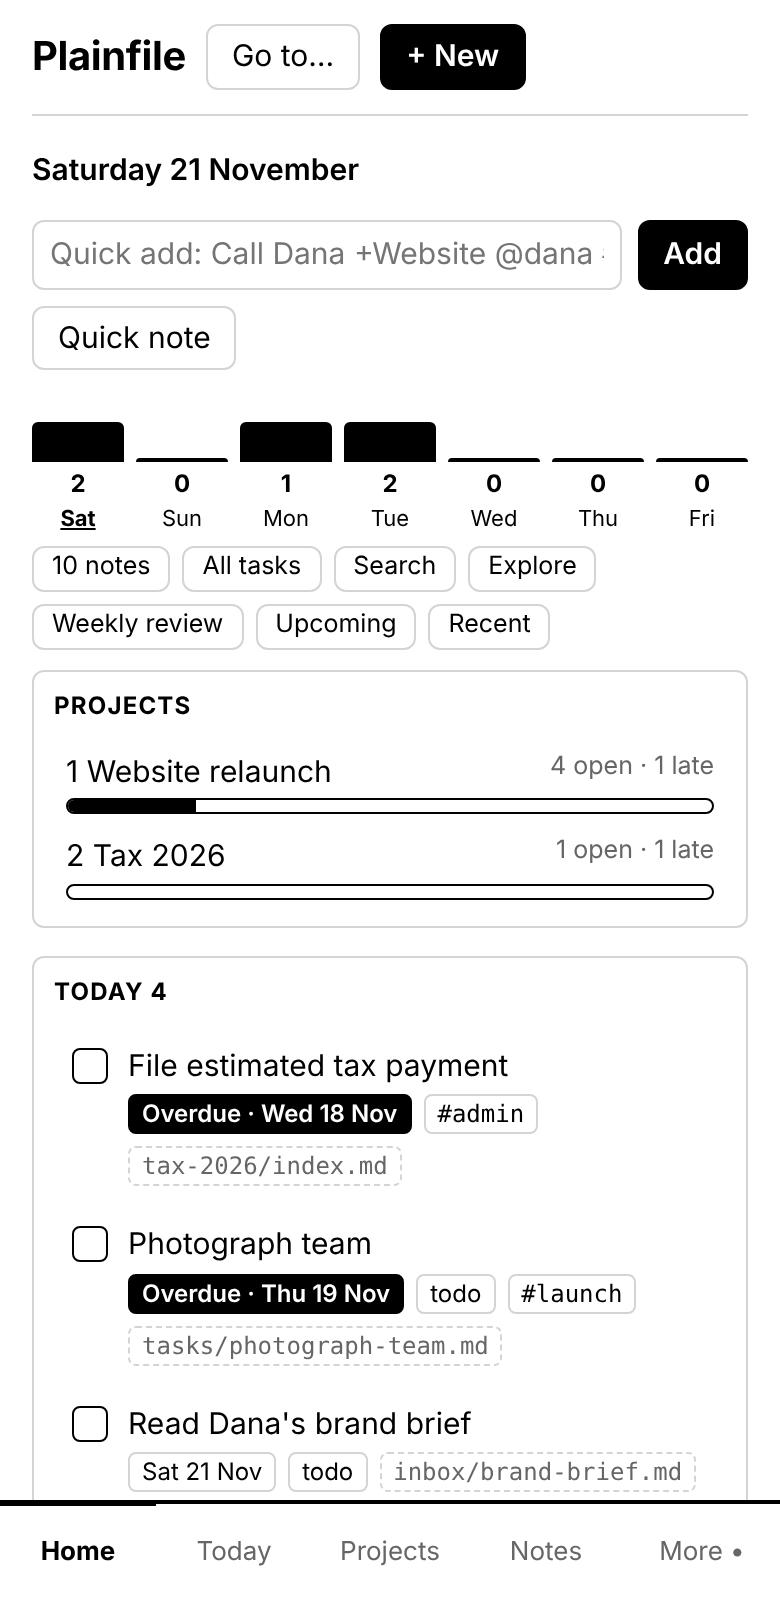
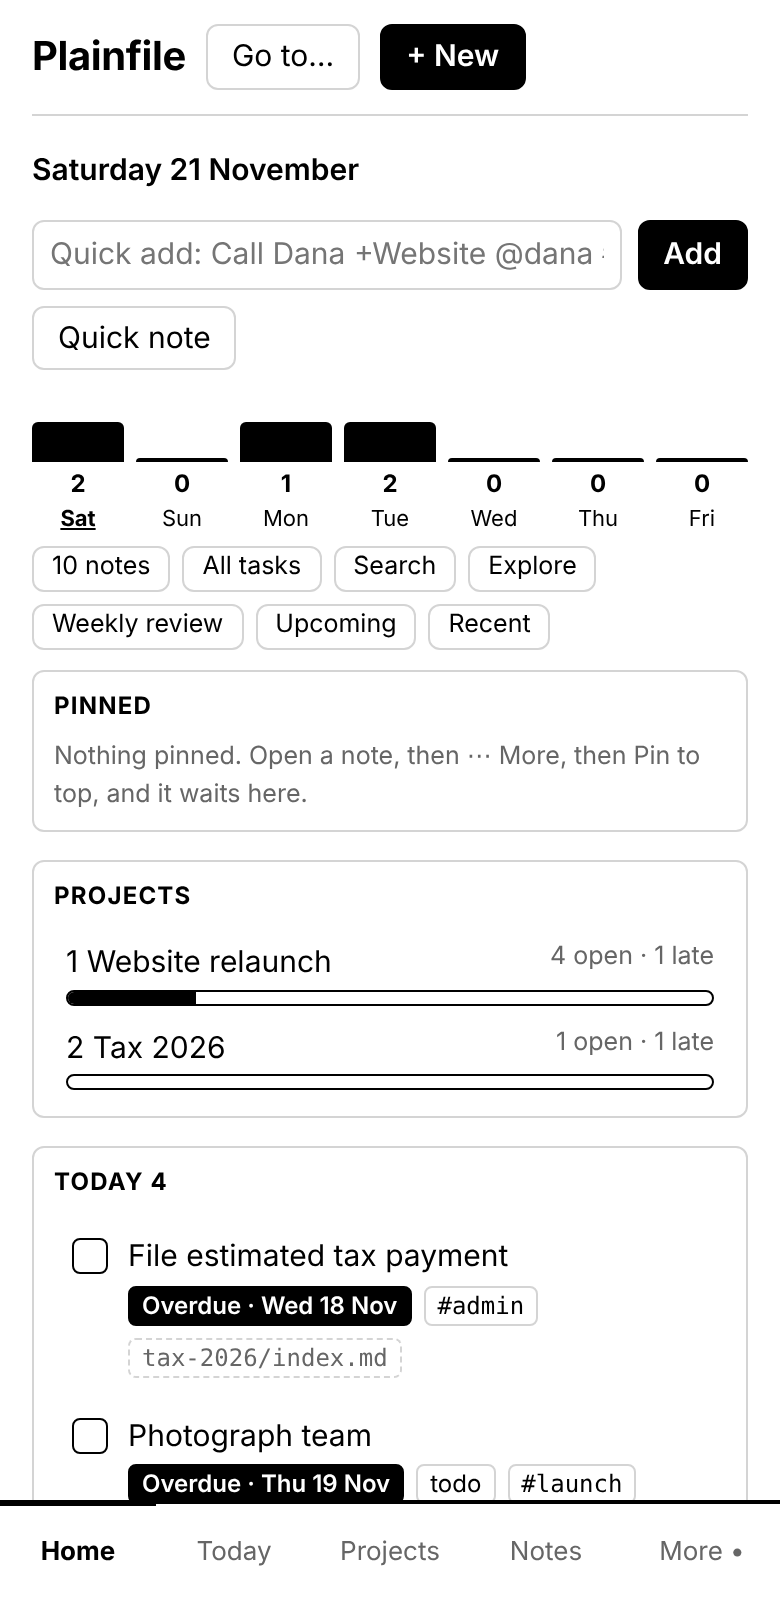
Calmer header: one folder menu, labelled More badge, plainer words; new screenshots (1.23.0) (#53)
Claude-Session: https://claude.ai/code/session_01R4FEdBw4QsP4joija6qyER

diff --git a/web/main.ts b/web/main.ts
@@ -113,6 +113,8 @@ const NAV_MORE: { id: ScreenId; label: string }[] = [
 ];
 /** Whether the header's More menu is open. */
 let navMoreOpen = false;
+/** The header's folder menu (Check for changes, Open another folder) is open. */
+let hdrMenuOpen = false;
 
 async function go(screen: ScreenId): Promise<void> {
   await notes.flush();
@@ -223,8 +225,8 @@ function tabbar(hc: number): string {
           return `<button class="btn" data-nav="${id}" data-more-item>${label}${n ? ` <span class="badge"${id === 'tasks' ? ` aria-label="${n} open task${n === 1 ? '' : 's'}"` : ''}>${n}</span>` : ''}</button>`;
         })
         .join('') +
-      '<button class="btn" data-act="rescan" data-more-item>Rescan</button>' +
-      (fsaSupported() ? '<button class="btn" data-act="open" data-more-item>Open folder</button>' : '') +
+      '<button class="btn" data-act="rescan" data-more-item>Check for changes</button>' +
+      (fsaSupported() ? '<button class="btn" data-act="open" data-more-item>Open another folder…</button>' : '') +
       `${themeControl()}<button class="btn" data-act="more-close">Close</button></div></div>`
     : '';
   return `<nav class="tabbar" aria-label="Main">${tab('home', 'Home')}${tab('today', 'Today')}${tab('projects', 'Projects')}${tab('notes', 'Notes')}<button class="tab-b" data-act="more-toggle" aria-expanded="${moreOpen}">More${hc ? ' •' : ''}</button></nav>${sheet}`;
@@ -243,7 +245,7 @@ function shell(): string {
   }
   const inMore = NAV_MORE.some((n) => isCurrent(n.id));
   h +=
-    `<span class="nav-more-wrap"><button class="navbtn nav-more" data-act="nav-more" aria-haspopup="menu" aria-expanded="${navMoreOpen}" aria-current="${inMore}">More${hc ? ` <span class="badge">${hc}</span>` : ''}</button>` +
+    `<span class="nav-more-wrap"><button class="navbtn nav-more" data-act="nav-more" aria-haspopup="menu" aria-expanded="${navMoreOpen}" aria-current="${inMore}">More${hc ? ` <span class="badge" title="${hc} thing${hc === 1 ? '' : 's'} to look at in Vault health" aria-label="${hc} thing${hc === 1 ? '' : 's'} to look at in Vault health">${hc}</span>` : ''}</button>` +
     (navMoreOpen
       ? `<div class="nav-menu" role="menu">${NAV_MORE.map((n) => `<button role="menuitem" data-nav="${n.id}" aria-current="${isCurrent(n.id)}">${n.label}${n.id === 'health' && hc ? ` <span class="badge">${hc}</span>` : ''}</button>`).join('')}</div>`
       : '') +
@@ -252,8 +254,13 @@ function shell(): string {
   h += '<button class="btn" data-act="palette-open" title="Open a note or run an action" aria-label="Go to a note or action">Go to…</button>';
   h += '<button class="btn primary" data-act="new">+ New</button>';
   const rest =
-    '<button class="btn" data-act="rescan">Rescan</button>' +
-    (fsaSupported() ? '<button class="btn" data-act="open">Open folder</button>' : '') +
+    `<span class="hdr-menu-wrap"><button class="btn" data-act="hdr-menu" aria-haspopup="menu" aria-expanded="${hdrMenuOpen}" aria-label="Folder actions" title="Check for changes, open another folder">⋯</button>` +
+    (hdrMenuOpen
+      ? '<div class="nav-menu hdr-menu" role="menu"><button role="menuitem" data-act="rescan"><span>Check for changes</span><span class="muted small">read the folder again</span></button>' +
+        (fsaSupported() ? '<button role="menuitem" data-act="open"><span>Open another folder…</span></button>' : '') +
+        '</div>'
+      : '') +
+    '</span>' +
     `<button class="btn" data-nav="guide" aria-label="Syntax cheat sheet" title="Syntax cheat sheet" aria-current="${state.screen === 'guide'}">?</button>${themeControl()}`;
   // On a phone these live in the More sheet of the bottom bar, so the header is only the name, Go to… and + New.
   h += `<span class="hdr-wide">${rest}</span></header>`;
@@ -436,9 +443,13 @@ app.addEventListener('click', (e) => {
       else sideOpen.add(toggle);
       return requestRender();
     }
-    // A click anywhere but the header More menu closes it.
+    // A click anywhere but the header More menu closes it, and the same for the folder menu (and after picking from it).
     if (navMoreOpen && !target.closest('.nav-more-wrap')) {
       navMoreOpen = false;
+      requestRender();
+    }
+    if (hdrMenuOpen && (!target.closest('.hdr-menu-wrap') || target.closest('[role="menuitem"]'))) {
+      hdrMenuOpen = false;
       requestRender();
     }
     const nav = target.closest<HTMLElement>('[data-nav]')?.dataset.nav as ScreenId | undefined;
@@ -461,6 +472,11 @@ app.addEventListener('click', (e) => {
         return newmenu.openNew();
       case 'nav-more':
         navMoreOpen = !navMoreOpen;
+        hdrMenuOpen = false;
+        return requestRender();
+      case 'hdr-menu':
+        hdrMenuOpen = !hdrMenuOpen;
+        navMoreOpen = false;
         return requestRender();
       case 'more-toggle':
         moreOpen = !moreOpen;
@@ -679,8 +695,9 @@ document.addEventListener(
 
 // The header More menu closes on Escape. This is on the document because redrawing the header drops the focus.
 document.addEventListener('keydown', (e) => {
-  if (e.key === 'Escape' && navMoreOpen) {
+  if (e.key === 'Escape' && (navMoreOpen || hdrMenuOpen)) {
     navMoreOpen = false;
+    hdrMenuOpen = false;
     requestRender();
   }
 });

diff --git a/tests/e2e/header.spec.ts b/tests/e2e/header.spec.ts
@@ -21,7 +21,7 @@ test.describe('the header on a wide screen', () => {
     await page.keyboard.press('Escape');
     await expect(page.locator('.nav-menu')).toHaveCount(0);
     await more.click();
-    await page.locator('.title, .home').first().click();
+    await page.locator('h1').click(); // away from the menu
     await expect(page.locator('.nav-menu')).toHaveCount(0);
     await more.click();
     await page.locator('.nav-menu').getByRole('menuitem', { name: 'Calendar' }).click();
@@ -41,4 +41,22 @@ test('on a phone the open task count is on Tasks in the More sheet', async ({ pa
       .getByRole('button', { name: /^Tasks/ })
       .locator('.badge'),
   ).toHaveText('2');
+});
+
+test('the header has one ⋯ folder menu instead of two buttons, and More says what its number is', async ({ page }) => {
+  await page.setViewportSize({ width: 1400, height: 900 });
+  await page.goto('/');
+  await openVault(page, { 'a.md': 'See [[Nowhere]].\n' }); // a broken link, so Vault health has something to say
+  await expect(page.getByRole('button', { name: 'Rescan', exact: true })).toHaveCount(0);
+  await expect(page.getByRole('button', { name: 'Open folder', exact: true })).toHaveCount(0);
+  const menu = page.getByRole('button', { name: 'Folder actions' });
+  await menu.click();
+  await expect(page.getByRole('menuitem', { name: /Check for changes/ })).toBeVisible();
+  await expect(page.getByRole('menuitem', { name: /Open another folder/ })).toBeVisible();
+  await page.keyboard.press('Escape');
+  await expect(page.getByRole('menuitem', { name: /Check for changes/ })).toHaveCount(0);
+  await menu.click();
+  await page.locator('h1').click(); // a click elsewhere closes it too
+  await expect(page.getByRole('menuitem', { name: /Check for changes/ })).toHaveCount(0);
+  await expect(page.locator('.nav-more .badge')).toHaveAttribute('title', /to look at in Vault health/);
 });

diff --git a/tests/e2e/board-rename.spec.ts b/tests/e2e/board-rename.spec.ts
@@ -1,5 +1,5 @@
 import { expect, test, type Page } from '@playwright/test';
-import { addFileExternally, listFiles, openVault, readFile, removeFileExternally, noteMenu, nav, noteItem } from './helpers';
+import { addFileExternally, listFiles, openVault, readFile, removeFileExternally, noteMenu, nav, noteItem, rescanApp } from './helpers';
 
 test.beforeEach(async ({ page }) => {
   await page.goto('/');
@@ -124,7 +124,7 @@ test.describe('rename', () => {
     const content = VAULT['notes/pricing-research.md'];
     await removeFileExternally(page, dir, 'notes/pricing-research.md');
     await addFileExternally(page, dir, 'notes/pricing-analysis.md', content);
-    await page.getByRole('button', { name: 'Rescan' }).click();
+    await rescanApp(page);
     await expect(page.locator('.notice', { hasText: 'was renamed to' })).toBeVisible();
     await page.getByRole('button', { name: /^Review/ }).click();
     await expect(page.getByRole('button', { name: /^Renamed outside/ })).toContainText('1');
@@ -146,7 +146,7 @@ test.describe('rename', () => {
     const dir = await openVault(page, VAULT);
     await removeFileExternally(page, dir, 'notes/pricing-research.md');
     await addFileExternally(page, dir, 'notes/pricing-analysis.md', VAULT['notes/pricing-research.md']);
-    await page.getByRole('button', { name: 'Rescan' }).click();
+    await rescanApp(page);
     await page.getByRole('button', { name: /^Review/ }).click();
     await page.getByRole('button', { name: 'No, different note' }).click();
     await expect(page.locator('.notice', { hasText: 'was renamed to' })).toHaveCount(0);

diff --git a/tests/e2e/projects.spec.ts b/tests/e2e/projects.spec.ts
@@ -639,7 +639,7 @@ test.describe('project hub', () => {
     await expect(page.locator('.hub-tools')).not.toHaveAttribute('open', '');
     await expect(page.locator('.hub-status-d')).not.toHaveAttribute('open', '');
     await expect(page.locator('.selbox').first()).toBeHidden();
-    await expect(page.getByRole('button', { name: 'Rescan' })).toBeHidden(); // behind the More tab
+    await expect(page.getByRole('button', { name: 'Folder actions' })).toBeHidden(); // behind the More tab
     await page.locator('.hub-tools > summary').click();
     await page.locator('#hub-group').selectOption('person');
     await expect(page.locator('.hub-tools')).toHaveAttribute('open', ''); // stays open while you work in it
@@ -649,7 +649,7 @@ test.describe('project hub', () => {
     await page.getByRole('button', { name: 'Stop selecting' }).click();
     await expect(page.locator('.selbox').first()).toBeHidden();
     await page.locator('.tabbar').getByRole('button', { name: /^More/ }).click();
-    await expect(page.locator('.more-sheet').getByRole('button', { name: 'Rescan' })).toBeVisible();
+    await expect(page.locator('.more-sheet').getByRole('button', { name: 'Check for changes' })).toBeVisible();
     await expect(page.locator('.more-sheet').getByRole('button', { name: 'Dark' })).toBeVisible();
     await page.locator('.more-sheet').getByRole('button', { name: 'Close' }).click();
     await page.locator('.hub-status-d > summary').click();

diff --git a/tests/e2e/screens.spec.ts b/tests/e2e/screens.spec.ts
@@ -361,10 +361,10 @@ test.describe('phone navigation', () => {
     await page.locator('.side-toggle').click();
     await expect(page.locator('.side [data-view="inbox"]')).toBeVisible();
     await page.locator('.side [data-view="inbox"]').click();
-    // More holds Board, Vault health, the cheat sheet, Rescan and the theme.
+    // More holds Board, Vault health, the cheat sheet, Check for changes and the theme.
     await bar.getByRole('button', { name: /^More/ }).click();
     const sheet = page.locator('.more-sheet');
-    for (const n of ['Search', 'Board', 'Weekly review', /^Vault health/, 'Cheat sheet', 'Rescan', 'Light', 'Dark', 'Auto'])
+    for (const n of ['Search', 'Board', 'Weekly review', /^Vault health/, 'Cheat sheet', 'Check for changes', 'Light', 'Dark', 'Auto'])
       await expect(sheet.getByRole('button', { name: n })).toBeVisible();
     await sheet.getByRole('button', { name: 'Board' }).click();
     await expect(page.locator('.more-sheet')).toHaveCount(0);

diff --git a/tests/e2e/today.spec.ts b/tests/e2e/today.spec.ts
@@ -1,5 +1,5 @@
 import { expect, test } from '@playwright/test';
-import { listFiles, localDate, openVault, readFile, readFileOrEmpty, writeFileExternally, nav } from './helpers';
+import { listFiles, localDate, openVault, readFile, readFileOrEmpty, writeFileExternally, nav, rescanApp } from './helpers';
 
 test.beforeEach(async ({ page }) => {
   await page.goto('/');
@@ -123,7 +123,7 @@ test('real folder: Rescan picks up a new file', async ({ page }) => {
     },
     { dir, text: `- [ ] Second due:${today}\n` },
   );
-  await page.getByRole('button', { name: 'Rescan' }).click();
+  await rescanApp(page);
   await expect(page.locator('.task')).toHaveCount(2);
 });
 

diff --git a/web/app.css b/web/app.css
@@ -809,3 +809,7 @@ kbd { border: 1px solid var(--fg); border-radius: 4px; padding: 0 5px; font: 12p
 .pathrow .plain-btn { color: var(--mute); text-decoration: underline; cursor: pointer; background: none; border: 0; padding: 0; font: inherit; font-size: 12px; }
 .pathrow .plain-btn:hover, .pathrow .plain-btn:focus-visible { color: var(--fg); }
 .wrap.focus .pathrow { display: none; }
+
+/* The header's folder menu (the ⋯ button): Check for changes and Open another folder. */
+.hdr-menu-wrap { position: relative; display: inline-block; }
+.hdr-menu-wrap .nav-menu { left: auto; right: 0; min-width: 15rem; }

diff --git a/tests/e2e/helpers.ts b/tests/e2e/helpers.ts
@@ -153,3 +153,9 @@ export async function noteItem(page: Page, hasText: string | RegExp): Promise<im
 export async function openHubTools(page: Page): Promise<void> {
   if (!(await page.locator('.hub-tools[open]').count())) await page.locator('.hub-tools > summary').click();
 }
+
+/** Read the folder again, from the header's ⋯ menu. */
+export async function rescanApp(page: Page): Promise<void> {
+  await page.getByRole('button', { name: 'Folder actions' }).click();
+  await page.getByRole('menuitem', { name: /Check for changes/ }).click();
+}

diff --git a/web/today.ts b/web/today.ts
@@ -169,7 +169,7 @@ async function movePriority(letter: string | null): Promise<void> {
 
 function source(): string {
   const c = state.context;
-  let h = '<h2>Source on disk</h2>';
+  let h = '<h2>In your file</h2>';
   if (!c)
     h +=
       '<p class="muted small" style="margin:0">Select a task to see the exact lines in its file. Tick the box and the change shows here. Click the selected task again, or press E, to open its note.</p>';

diff --git a/web/menu.ts b/web/menu.ts
@@ -65,7 +65,7 @@ export function itemsFor(path: string, inNote: boolean): (Item | '-')[] {
   const items: (Item | '-')[] = [];
   if (inNote)
     items.push(
-      { action: 'xray', label: 'X-ray (show raw markdown)' },
+      { action: 'xray', label: 'Show raw markdown (X-ray)' },
       { action: 'explore', label: 'Explore related' },
       { action: 'history', label: 'History' },
       '-',

diff --git a/CHANGELOG.md b/CHANGELOG.md
@@ -4,6 +4,13 @@ All notable changes to this project are documented here. Versions follow
 `MAJOR.MINOR.PATCH`. The version in `package.json` is bumped on every
 deploy-intended change, together with an entry here.
 
+## [1.23.0] - 2026-11-23
+
+### Changed
+- A calmer header: **Rescan** and **Open folder** are now one **⋯** menu with **Check for changes** and **Open another folder…**, so there are two fewer buttons before your work starts. The same words are in the More sheet on a phone.
+- The number on **More** now says what it counts when you hover it or use a screen reader ("3 things to look at in Vault health").
+- Plainer words: the panel beside Today is **In your file** (it was "Source on disk"), and the note menu item is **Show raw markdown (X-ray)**.
+
 ## [1.22.3] - 2026-11-23
 
 ### Changed
